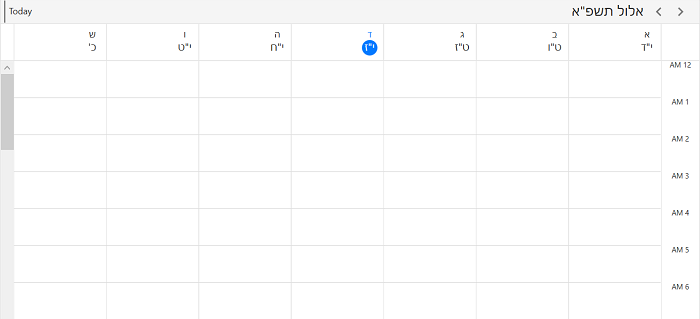
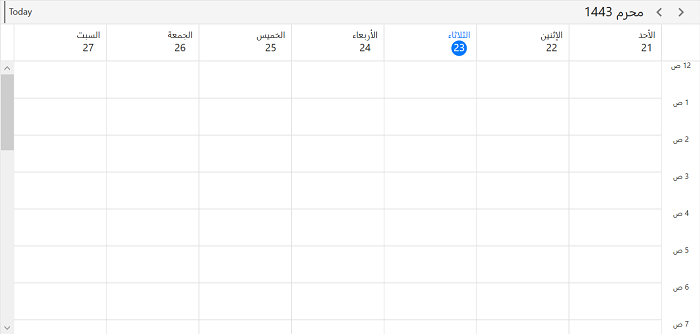
Update Calendar-Types_Images/CalendarTypes.png

diff --git a/wpf/Scheduler/Calendar-Types.md b/wpf/Scheduler/Calendar-Types.md
@@ -42,19 +42,18 @@ N>
 * When the `CalendarIdentifier` and `FlowDirection` properties are set, the `FlowDirection` property is given higher precedence. If you want to override this behavior set `FlowDirection` after `CalendarIdentifier.`
 * The scheduler uses the `CalendarIdentifier` property to determine which calendar to use to localize and format the header date, view header day, and date, time ruler, and DatePicker, and TimePicker in the appointment editor.
 * By default, the scheduler uses the `GregorianCalendar` for the app’s preferred language.
-* If the scheduler is localized with the `CalendarIdentifier,` it will display in the app’s preferred language. For example, if you specify a `KoreanCalendar` and the app language is "en-us," the scheduler will display in English because there are translations applied for the Korean calendar.
 
 {% tabs %}
 {% highlight xaml %}
 <scheduler:SfScheduler x:Name="Schedule"
-                       CalendarIdentifier="HebrewCalendar" />
+                       CalendarIdentifier="HijriCalendar" />
 {% endhighlight %}
 {% highlight c# %}
-this.Schedule.CalendarIdentifier = "HebrewCalendar";
+this.Schedule.CalendarIdentifier = "HijriCalendar";
 {% endhighlight %}
 {% endtabs %}
 
-![Hebrew Calendar](Calendar-Types_Images/CalendarTypes.png)
+![Hijri Calendar](Calendar-Types_Images/CalendarTypes.png)
 
 ## DateTime values in Calendar types
 You can give all the DateTime values such as `DisplayDate,` `SelectedDate,` `BlackoutDates,` Appointment `StartTime,` and `EndTime,` `SpecialTimeRegion,` Start and End time values in two ways When calendar identifier is specified other than `GregorianCalendar.`
